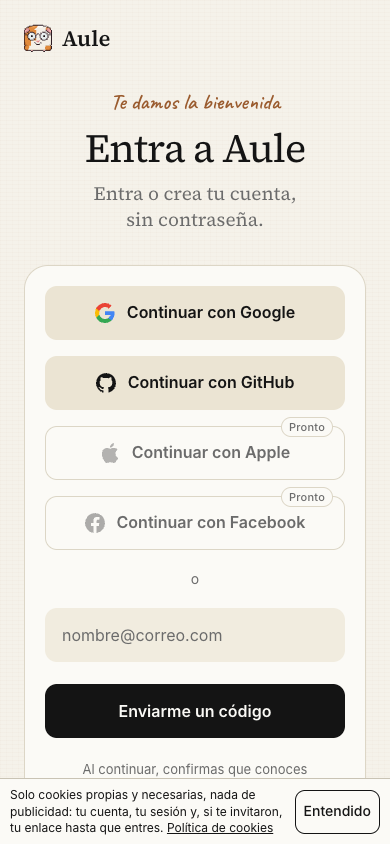
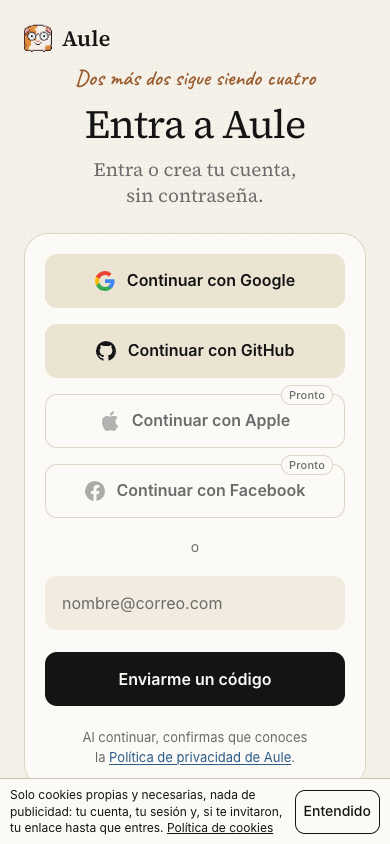
feat(playground): the sign-in's eyebrow picks its line at random, and its small print clears the cookie notice (#271)
## What the owner asked for

About the line above «Entra a Aule»: «debería ser como minecraft con
líneas random … por ejemplo cuando es de noche … no me hagas algo
determinístico». And, from the step before (#269), a small print the
cookie notice no longer covers.

## What changes

- **The eyebrow is a line picked at random on each visit** from a
written pool (`ENTRY_LINES` in `signin.js`), each line with its English
twin beside it. A line may hold only for a new or a returning visitor,
for hours of the visitor's own clock, or for days of the week. Lines
tied to the hour or the day weigh three times a general one; three rare
ones show on about one visit in forty. Nothing is stored and there is no
seed: two loads in a row may differ. If the picker fails, the two lines
of before are said.
- **No model writes these lines.** They are written, read by people, and
appear at once.
- **The small print ends above the cookie notice** at 1440×900 and
390×844 while the notice shows. On shorter screens it is still covered
until the notice is read or the page scrolled.
- **Three English lines** corrected to say what the Spanish says.

## The pool (Spanish)

General: «Te damos la bienvenida», «Pasa, que hay tarea», «Lápiz,
cuaderno y ganas», «Sin apuro, paso a paso», «Hoy sí sale ese
ejercicio». Returning: «¡Qué bueno que estés de vuelta!», «Otra vez por
aquí. Bien.», «El cuy te estaba esperando». Morning: «Buenos días.
[…]

diff --git a/apps/playground/public/signin.js b/apps/playground/public/signin.js
@@ -77,7 +77,7 @@ const ENTRY_WORDS = {
   en: {
     title: "Sign in to Aule",
     greeting: "Welcome",
-    returning: "Welcome back!",
+    returning: "Good to see you back!",
     help: "Sign in or create your account, without a password.",
     google: "Continue with Google",
     github: "Continue with GitHub",
@@ -87,7 +87,7 @@ const ENTRY_WORDS = {
     or: "or",
     email: "Your email",
     email_placeholder: "name@email.com",
-    email_required: "An email address is required.",
+    email_required: "Enter your email address.",
     email_invalid: "Check the email: it does not look like a valid address.",
     send: "Send me a code",
     privacy_lead: "By continuing, you confirm that you are familiar with",
@@ -129,13 +129,105 @@ const ENTRY_WORDS = {
   },
 };
 
-const entryText = (key) => ENTRY_WORDS[document.documentElement.lang === "en" ? "en" : "es"][key];
+const entryLanguage = () => (document.documentElement.lang === "en" ? "en" : "es");
+const entryText = (key) => ENTRY_WORDS[entryLanguage()][key];
+
+// The eyebrow over the entry's title is a splash line (FIGMA.md D47): on each
+// load one line of this pool is picked at random, by weight, among those whose
+// conditions hold for the visitor and by their own clock. Nothing is seeded
+// and nothing is kept: two loads in a row may differ. A line may say who it is
+// for ("new" or "returning"; either, when it does not say), the hours it holds
+// in (from `from` up to, not including, `to`; round midnight when `from` is
+// the later), the days of the week (0 is Sunday) and its weight (1 when it
+// does not say). Each line is written in Spanish and in English, side by side,
+// and neither is longer than 40 characters, so the eyebrow keeps to one line
+// on a phone.
+// A line tied to the hour or the day weighs three general ones: there it shows
+// most of the time, not always.
+const TIMED = 3;
+// A rare line weighs a tenth of a general one: one of the three shows on about one visit in forty.
+const RARE = 0.1;
+const ENTRY_LINES = [
+  // General, for anyone.
+  { es: "Te damos la bienvenida", en: "Welcome" },
+  { es: "Pasa, que hay tarea", en: "Come in, there's homework" },
+  { es: "Lápiz, cuaderno y ganas", en: "Pencil, notebook and the will to try" },
+  { es: "Sin apuro, paso a paso", en: "No rush, step by step" },
+  { es: "Hoy sí sale ese ejercicio", en: "Today that exercise works out" },
+  // General, for a browser that has signed in before.
+  { es: "¡Qué bueno que estés de vuelta!", en: "Good to see you back!", who: "returning" },
+  { es: "Otra vez por aquí. Bien.", en: "Here again. Good.", who: "returning" },
+  { es: "El cuy te estaba esperando", en: "The guinea pig was waiting for you", who: "returning" },
+  // The morning, 05:00 to 11:59.
+  { es: "Buenos días. ¿Tarea temprano?", en: "Good morning. Homework this early?", from: 5, to: 12, weight: TIMED },
+  { es: "Con el desayuno entra mejor", en: "It goes down better with breakfast", from: 5, to: 12, weight: TIMED },
+  // The afternoon, 12:00 to 18:59.
+  { es: "Buenas tardes. Hora de la tarea", en: "Good afternoon. Homework time", from: 12, to: 19, weight: TIMED },
+  { es: "Después del cole, un ratito", en: "After school, just a little while", from: 12, to: 19, weight: TIMED },
+  // The evening, 19:00 to 22:59.
+  { es: "Buenas noches. ¿Tarea de último minuto?", en: "Good evening. Last-minute homework?", from: 19, to: 23, weight: TIMED },
+  { es: "Todavía hay tiempo antes de dormir", en: "There's still time before bed", from: 19, to: 23, weight: TIMED },
+  // Late at night, 23:00 to 04:59.
+  { es: "¿Despiertos a esta hora?", en: "Up at this hour?", from: 23, to: 5, weight: TIMED },
+  { es: "Shhh… los niños duermen", en: "Shhh… the children are asleep", from: 23, to: 5, weight: TIMED },
+  { es: "La tarea puede esperar a mañana", en: "The homework can wait until morning", from: 23, to: 5, weight: TIMED },
+  // The day of the week.
+  { es: "Lunes. Empezamos bien", en: "Monday. Off to a good start", days: [1], weight: TIMED },
+  { es: "Viernes: última tarea de la semana", en: "Friday: last homework of the week", days: [5], weight: TIMED },
+  { es: "Fin de semana y aquí estás", en: "The weekend, and here you are", days: [6, 0], weight: TIMED },
+  { es: "Domingo de repaso", en: "Sunday revision", days: [0], weight: TIMED },
+  // Rare, for anyone.
+  { es: "El cuy dice hola", en: "The guinea pig says hi", weight: RARE },
+  { es: "Dos más dos sigue siendo cuatro", en: "Two plus two is still four", weight: RARE },
+  { es: "Hecho en Lima, con tarea", en: "Made in Lima, with homework", weight: RARE },
+];
+
+/** Whether a line's conditions hold for a new or a returning visitor, at `now` by the visitor's clock. */
+function lineHolds(line, returning, now) {
+  if (line.who && line.who !== (returning ? "returning" : "new")) return false;
+  if (line.days && !line.days.includes(now.getDay())) return false;
+  if (line.from === undefined) return true;
+  const hour = now.getHours();
+  return line.from < line.to ? hour >= line.from && hour < line.to : hour >= line.from || hour < line.to;
+}
+
+/**
+ * One of the `lines` whose conditions hold, at random by weight; null when none holds. `random` gives a
+ * number from 0 up to 1 and `now` is the visitor's clock: both are handed in, so a test can fix them.
+ */
+function pickLine(lines, returning, now, random) {
+  const holding = lines.filter((line) => lineHolds(line, returning, now));
+  const total = holding.reduce((sum, line) => sum + (line.weight ?? 1), 0);
+  let left = random() * total;
+  for (const line of holding) {
+    left -= line.weight ?? 1;
+    if (left < 0) return line;
+  }
+  return holding[holding.length - 1] ?? null;
+}
+
+// This load's line and whom it was picked for. Signing in or erasing the account makes the
+// visitor another, and a line is picked again; coming back from the code step keeps it.
+let entryLine = null;
+
+/** The eyebrow's words in the page's language: this load's line, or one of the two lines it always had when none can be picked. */
+function greeting() {
+  const returning = recall(local, RETURNING) === "1";
+  try {
+    if (entryLine?.returning !== returning) entryLine = { returning, line: pickLine(ENTRY_LINES, returning, new Date(), Math.random) };
+    const words = entryLine.line?.[entryLanguage()];
+    if (words) return words;
+  } catch {
+    // Whatever went wrong, the eyebrow still greets.
+  }
+  return entryText(returning ? "returning" : "greeting");
+}
 
 /** Writes the words of the four screens in the page's language, each where its key is named. */
 function entryWords() {
   for (const element of document.querySelectorAll("[data-entry]")) element.textContent = entryText(element.dataset.entry);
   for (const field of document.querySelectorAll("[data-entry-placeholder]")) field.placeholder = entryText(field.dataset.entryPlaceholder);
-  $("entry-greeting").textContent = entryText(recall(local, RETURNING) === "1" ? "returning" : "greeting");
+  $("entry-greeting").textContent = greeting();
 }
 
 // What the browser keeps for the page, read and written where it may refuse.

diff --git a/apps/playground/public/style.css b/apps/playground/public/style.css
@@ -868,13 +868,15 @@ html[data-screen="p03"] main {
   min-height: calc(100dvh - var(--notice-room));
 }
 
+/* 64 px above the eyebrow, clear of Aule's mark, and no more: with its four ways in the card
+   is tall, and on a 390 by 844 phone its small print has to end above the cookie notice. */
 .screen.entry:not([hidden]) {
   position: relative;
   display: flex;
   flex-direction: column;
   align-items: center;
   min-height: 0;
-  padding: 88px 24px 32px;
+  padding: 64px 24px 32px;
 }
 
 .entry .frame {
@@ -951,7 +953,7 @@ html[data-screen="p03"] main {
 .entry-card {
   width: 100%;
   max-width: 600px;
-  margin-top: 32px;
+  margin-top: 24px;
   padding: 20px;
   border: 1px solid var(--entry-edge);
   border-radius: 24px;
@@ -1305,14 +1307,23 @@ html[data-screen="p03"] .entry-picture.ready {
   }
 }
 
-/* A laptop's short screen: less air above the title and the card, so the card ends on the first screen. */
-@media (min-width: 960px) and (max-height: 820px) {
+/* With its four ways in the card is tall. On a screen up to 960 px tall (a laptop's, or
+   a 900 px one with the cookie notice showing) there is less air above the title and the
+   card, so the card and its small print end above the notice, not under it. */
+@media (min-width: 960px) and (max-height: 960px) {
   .screen.entry:not([hidden]) {
-    padding: 84px 32px 32px;
+    padding: 80px 32px 24px;
   }
 
   .entry-card {
-    margin-top: 40px;
+    margin-top: 24px;
+  }
+}
+
+/* From 1200 px wide the eyebrow passes beside Aule's mark, never under it: it can start higher. */
+@media (min-width: 1200px) and (max-height: 960px) {
+  .screen.entry:not([hidden]) {
+    padding-top: 56px;
   }
 }
 

diff --git a/apps/playground/FIGMA.md b/apps/playground/FIGMA.md
@@ -238,6 +238,7 @@ Each is what the code does today; the owner can change any of them.
 | D44 | Under a question with a few possible answers, Aule's line in the conversation has buttons for them under it (`public/choices.js`, [`contracts/choices`](../../contracts/README.md)): Cuadro/Opción 190:806 made compact for the conversation, at least 56 px tall and 88 px wide, Inter 600 20, white with a 2 px black border, side by side and wrapping. The session engine offers its own («Sí» to «¿Empezamos?», a break's four activities, «No tengo mi tarea» while it waits for the homework's photo, an exercise's options) and the tutor's model its own, in the session's language; they come once the question has been said to its end. One tap answers: its words go to the tutor as a typed message does, through both input gates, and are written in the conversation as the student's («Tú»). Where several may be marked, each is a toggle (`aria-pressed`), «Puedes tocar varias y luego «Listo».» says so, and Botón/Negro 190:834 «Listo», as the camera's, sends what is marked as one turn, joined by commas in the order offered («1/2, 2/4»); it cannot be pressed until something is marked. Once answered, what was chosen stays black (Seleccionada 190:825), the rest is dashed (D14) and none can be pressed; so too once the conversation moves on: a new line of Aule's or the student's, newer answers, or the end of the session, which forgets them with the conversation. A tap that could not be sent says «No se pudo enviar el mensaje.» and the buttons can be pressed again. The group is named «Toca tu respuesta»; in English “Tap your answer”, “You can tap more than one, then “Done”.” and “Done”. Space still talks on them and Enter presses them, as on the camera's buttons (D31). A page that was reloaded, or that missed the tutor's message, draws the waiting question's answers from the engine's step once it has found them waiting on two looks with Aule listening; they are never drawn twice. | The owner's request: «en el chat debe haber un modo donde seleccionar multi opción». A six-year-old who cannot spell an answer, or say it so that speech recognition reads it, can tap it, and a tap is never a way around the gates. The buttons come after the question, so the child hears it first, and stop working once the conversation moves on, so an old answer is never sent to a new question. The page keeps none of it: after a reload there are no buttons until Aule asks again. |
 | D45 | The entry `p01` and its code step `p03` are laid out web-only, after a reference the owner chose (its layout, nothing of its brand). From 960 px, two columns: the left 54 % has Aule's mark and name top left (44 px in) and, centred both ways, the title (Source Serif 4, 64 px; 40 on `p03`; its weight is D46's), the help under it (Source Serif 4, 24 px) and, 60 px lower, one card 600 px wide (28 px corners, a 1 px edge, 38 px of padding). The card's rows are 54 px tall with 12 px corners: the ways in (D46 says which and how), «o», the email field as a filled box under its placeholder (its label stays for a screen reader), Botón/Principal «Enviarme un código» 22 px under it, the message line and the small print (D46). An email that is missing («Escribe tu correo electrónico.» / “An email address is required.”) or is not one («Revisa el correo: no parece una dirección válida.») gives the field a 1 px edge in the error's colour and a line right under it, a ringed «!» and the words from the left; only what is under the field moves down. `p03` has the six digits, the name when it is asked, «Continuar» and its two links in the same card, and «← Atrás» as a pill under it. The right 46 % has one upright panel (4 : 5, 24 px corners) with the session's pixel cuy dancing (the mascot's «celebrating»): one panel for both screens, shown once the cuy can be drawn. Under 960 px there is one column and the panel, wider than tall, comes after the card. The two screens have two palettes from the same tokens: paper and ink as everywhere, and a near-dark of the same paper (`#141413` with light fibres, off-white ink, lighter copper and error red) where the system asks for dark. The switch is the one `@media (prefers-color-scheme: dark)` block in `style.css`, which redefines the tokens for `html[data-screen="p01"]` and `html[data-screen="p03"]` only: every other screen is on paper in both modes. The browser's bars (`theme-color`) read the palette from the sheet. | The owner's request of 27 Nov («aule paper and near-dark»). No video or play button (Aule has none), no second action under the card on `p01` (the screen had none to put there),. Supersedes D3's folded providers. `p14` and `p15`, reached from the code step, stay on paper. |
 | D46 | The entry's ways in are rows of one size, each as wide and as tall (54 px) as the email field and its button, in this order: Google, GitHub, Apple, Facebook. Google's row is the page's own, drawn as the others («G» in Google's four colours and «Continuar con Google»): Google's script still draws Google's button, in its frame, into a slot laid over the row, at an opacity near 0 and stretched from the row's corner until it covers the row exactly (`signin.js` `fitGoogle`, which reads the frame's place, size and margins and follows any change of them or of the row). A click anywhere on the row is a click on Google's button, and the sign-in is Google's, unchanged. What the page draws is hidden from a screen reader, which finds Google's one button; the keyboard reaches that button too, and the row draws the focus ring. With no client id, or when Google's script does not load, the row is not there. GitHub, Apple and Facebook always have their row: a link where the server reports the provider, and where it does not, the same row greyed, with «Pronto» (“Soon”) at its end (on its top edge under 480 px, where there is no room beside the words), no address, `aria-disabled` and out of the Tab order. The small print under the card is «Al continuar, confirmas que conoces la Política de privacidad de Aule.» (“By continuing, you confirm that you are familiar with Aule’s Privacy Policy.”), the policy linked as P04 links it; it always shows. The type is the brand site's: the eyebrow in its handwriting (Caveat 600, 22/1.3, copper; it was Inter 500 14), the title as its large serif statement (Source Serif 4 400, 1.08, −0.025em; it was 300, 1.1, −0.01em), the code step's title as its section titles (500, 1.12, −0.01em), and the rows in its button's Inter (600, 16 px, no tracking; they were 500). The email field keeps Inter 400, as the brand site's own fields. Every word of `p01`, `p03`, `p14` and `p15` is in `signin.js` `ENTRY_WORDS` in Spanish and English under the same key, and an element names its key in `data-entry` (a field's placeholder in `data-entry-placeholder`). | The owner's requests of 27 Nov: «pon los logins del mismo tamaño», Apple and Facebook shown but off, his words for the small print (which replace the providers' cookie line of D36), and the landing's typefaces. Google's button cannot be styled or sized past 400 × 40 px, and nothing but a click on it starts Google's sign-in, so it is kept whole and only covered. Not verified against Google's real script: that its button takes the click at that opacity, and what its frame says to a screen reader. |
+| D47 | The eyebrow over the entry's title is a splash line. On each load `signin.js` picks one line from a written pool (`ENTRY_LINES`) at random, by weight, among those whose conditions hold: who it is for (a new visitor, one whose browser signed in before, or either), the hour by the visitor's own clock (morning from 5, afternoon from 12, evening from 19, late night from 23 to 5) and the day of the week. A line tied to the hour or the day weighs three general ones, so it shows most of the time there and not always; three rare lines weigh a tenth of one, about one visit in forty between them. Each line is written in Spanish and English side by side and is 40 characters at most (304 px in the handwriting: one line on a 360 px phone). Nothing is seeded and nothing is stored: two loads may differ, and one load keeps its line. When no line can be picked the eyebrow says «Te damos la bienvenida» or, in a browser that signed in before, «¡Qué bueno que estés de vuelta!», as it always did. The card is also lifted: 64 px above the eyebrow on a phone and the card 24 px under the help; on two columns up to 960 px tall, 80 px above (56 from 1200 px wide, where the eyebrow passes beside Aule's mark). With the cookie notice showing, the small print then ends above it on a 390 × 844 phone and at 1440 × 900. | The owner's requests of 27 Nov: lines at random as a game's splash text («no me hagas algo determinístico»), and the privacy line clear of the cookie notice, which is itself unchanged. The pool is the owner's to edit. The family guide still says a returning family is greeted with «¡Qué bueno que estés de vuelta!», which is now one line of several. On a shorter screen (a 768 px laptop, a 360 × 800 phone) the small print is still under the notice until the notice is read or the page scrolled. |
 
 
 ## 8. Not built, and what would need the platform

diff --git a/apps/playground/README.md b/apps/playground/README.md
@@ -23,7 +23,7 @@ are preserved, and all four together weigh 4,274 bytes.
 
 ### A child's first steps
 
-- **The road there.** New and returning families use the same entry, with the email field beside the configured providers. The code screen asks for the parent's name only after a valid code for a new account; the platform rechecks that code when creating the account. Consent and the child's profile stay separate, with both storage choices unticked. The shortest new-family path to the microphone check is 7 screens by email (formerly 9), 6 by Google (formerly 7); choosing a subject adds the same details screen as before. Optional interests and expectations remain on the home after the first session. The entry and its code step have a layout of their own: the title over one card of ways in and, from 960 px, the pixel cuy dancing in a panel beside it. They alone are near-dark where the system asks for dark, and on paper otherwise; the one switch is the `prefers-color-scheme` block of `public/style.css`. The card's ways in are rows of one size: Google's is the page's own with Google's button unseen over it, and GitHub, Apple and Facebook always show, as «Pronto» where the server does not have them yet. FIGMA.md D34, D42, D45, D46.
+- **The road there.** New and returning families use the same entry, with the email field beside the configured providers. The code screen asks for the parent's name only after a valid code for a new account; the platform rechecks that code when creating the account. Consent and the child's profile stay separate, with both storage choices unticked. The shortest new-family path to the microphone check is 7 screens by email (formerly 9), 6 by Google (formerly 7); choosing a subject adds the same details screen as before. Optional interests and expectations remain on the home after the first session. The entry and its code step have a layout of their own: the title over one card of ways in and, from 960 px, the pixel cuy dancing in a panel beside it. They alone are near-dark where the system asks for dark, and on paper otherwise; the one switch is the `prefers-color-scheme` block of `public/style.css`. The card's ways in are rows of one size: Google's is the page's own with Google's button unseen over it, and GitHub, Apple and Facebook always show, as «Pronto» where the server does not have them yet. The eyebrow over the title is a line picked at random on each load from a pool written in `public/signin.js` (`ENTRY_LINES`), some of them tied to the hour or the day by the visitor's clock; nothing about it is stored. FIGMA.md D34, D42, D45, D46, D47.
 - **The hand-off.** «Empezar su primera sesión» hands the browser to the child: «Ahora le toca a {nombre}.», «¿Eres tú?» and the name, with «Sí, soy yo» and «No soy yo» (which opens Configurar for the name). It follows César's A02; FIGMA.md D25.
 - **The microphone check (A05).** A05 asks the browser for the microphone alone. A bar moves with its level, and once a voice has been heard the line beside Aule's face says «Te escucho.»; with no voice it gives one hint at a time, and a microphone the browser will not give is named (blocked, missing or busy) with «Intentar otra vez». «Probar el sonido» plays the chime Aule joins with. The level is worked out in the browser by an AnalyserNode that is not connected to anything: no sound leaves the device, is played back or kept. The check never holds back «Empezar la sesión». FIGMA.md D26.
 - **The camera, off until it is needed.** A05's camera starts off and the browser is asked for it only when it is turned on; there it only shows what it sees. A session never turns it on by itself, as it joins or as the tutor comes in. «Mostrar mi tarea» works in two steps: the camera turns on and the stage shows all of what it sees, on this device only, while the child points it at their work; «Listo» publishes that same camera (the browser is not asked twice) and asks the tutor to look, and the camera goes off 1.5 s after the picture; «Cancelar», or 30 seconds with nothing, turns it off. The keyboard goes to the line that says what to do, never to «Listo», and with hold to talk Space never presses the camera's buttons. No picture leaves the device until «Listo»; then one frame is used and none is stored. With a tutor that takes no pictures, the session's «Cámara» turns it on and off once the tutor is in. FIGMA.md D12, D31.
